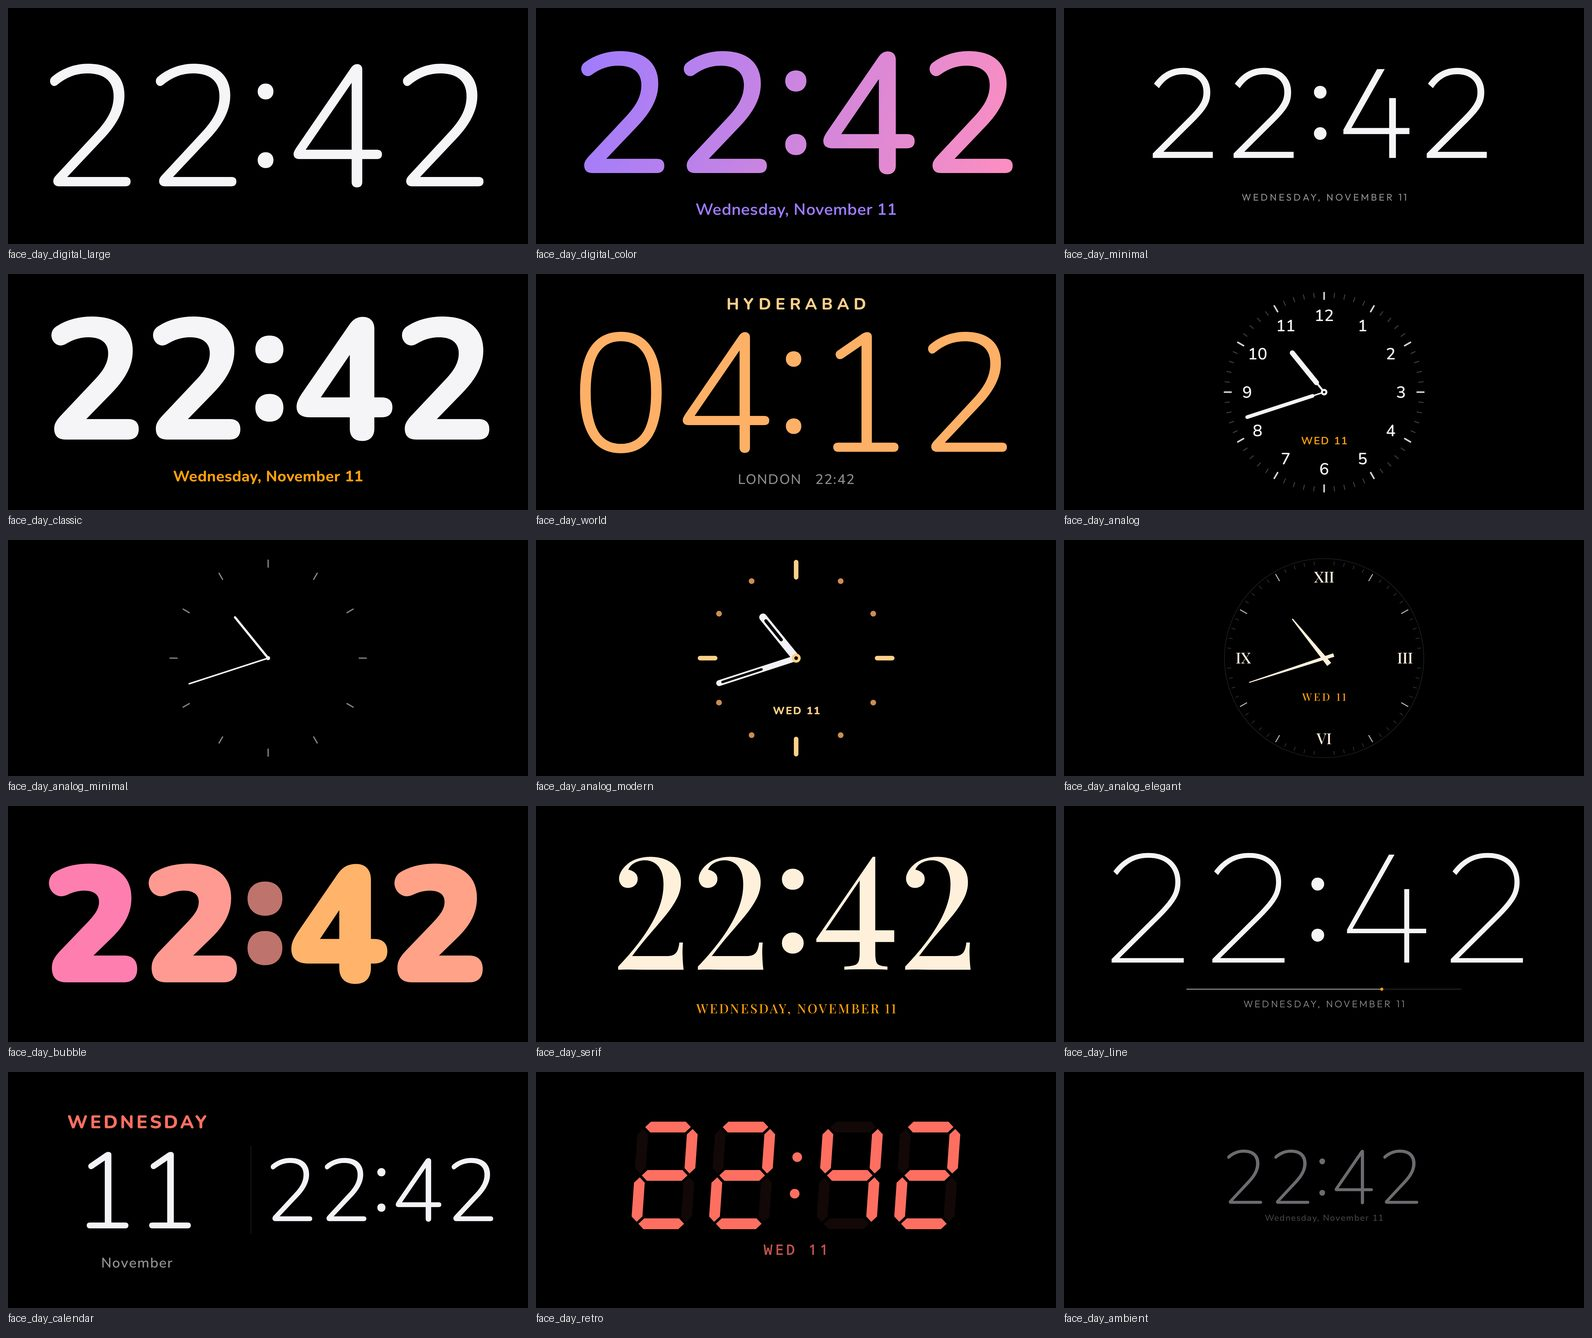
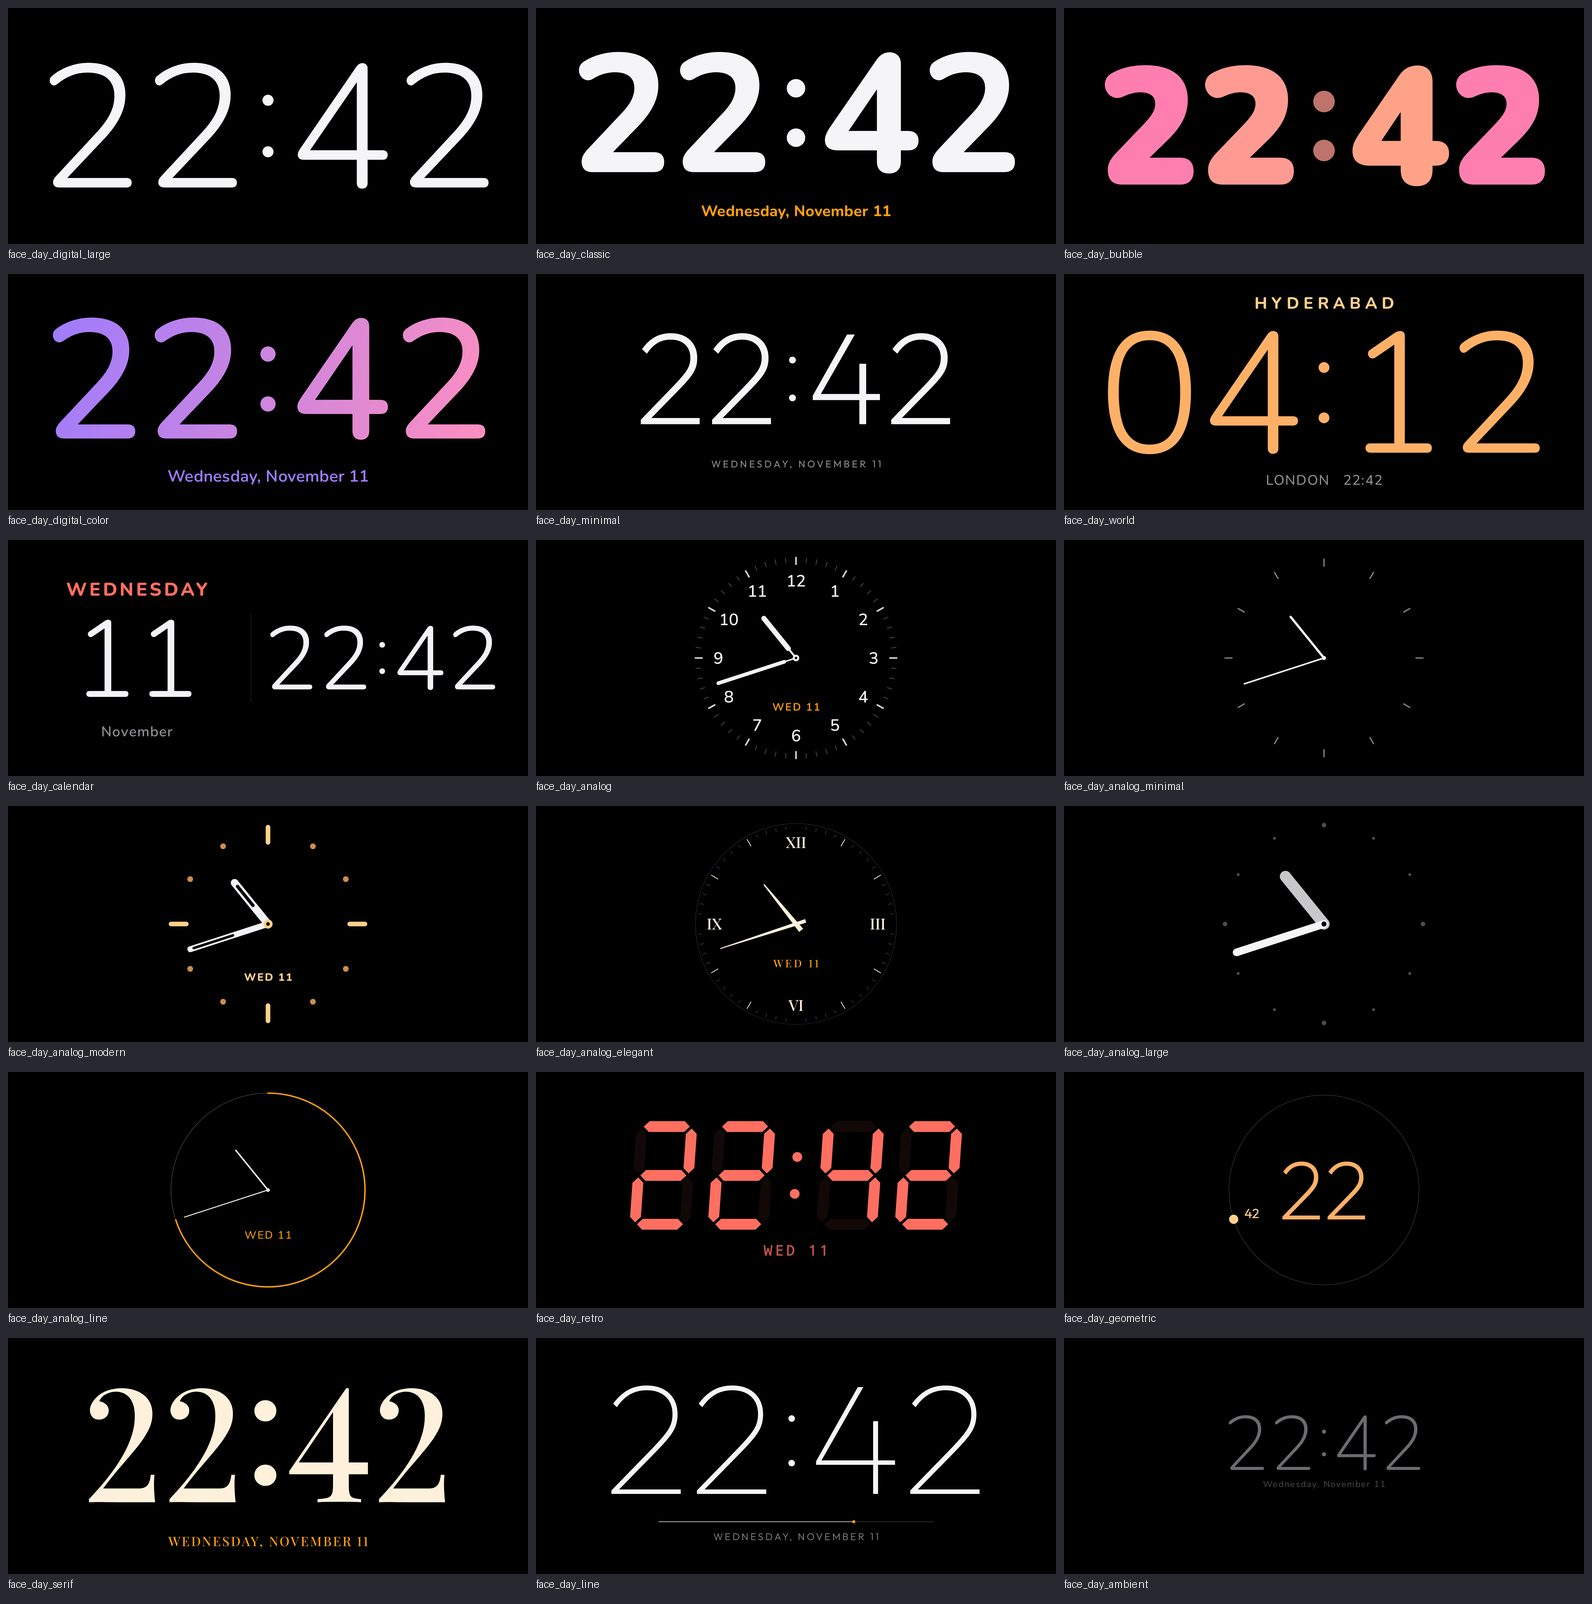
docs: ambient experience, faces, OnePlus test 14, progress, images
Claude-Session: https://claude.ai/code/session_016ebCtrYKcM3s4WXsvXfbU9

diff --git a/README.md b/README.md
@@ -1,4 +1,6 @@
-# StandBy Clock
+# StandBy Clock — NiteStand
+
+**NiteStand — an Apple StandBy-inspired ambient display for Android.** (Not affiliated with Apple; all code, fonts and assets are original or openly licensed.)
 
 **StandBy Clock turns your Android phone into a bedside display while charging.**
 
@@ -23,7 +25,8 @@ Material 3). No network access, no accounts. The core app needs no permissions; 
 | No charger | NiteStand Quick Settings tile (one tap, also from the lock screen), opt-in lock-screen auto start, battery screen-on timeout |
 | Diagnostics | Live report of what the phone allows (screen saver, keyguard, permissions, sensor angles, StandBy state) with copyable event log |
 | Orientation | Physical orientation from the gravity sensor / accelerometer, both landscape directions, configurable tolerance, hysteresis and settle time |
-| Clock faces | 15 Apple StandBy-inspired faces in a live-preview gallery (5 digital, 4 analog, 6 expressive) with per-face colours — swipe on StandBy to switch |
+| Clock faces | 18 StandBy-inspired faces in a live-preview gallery (7 digital, 6 analog, 5 decorative) with per-face colours — swipe up/down on StandBy to switch |
+| Ambient experience | Composed entrance/exit, per-glyph minute transitions, directional face transitions, floating information page, invisible burn-in drift, night environment |
 | Widgets | Clock, Date, Battery (percentage + status), Next alarm, Weather (sample data) |
 | Display | Immersive full screen, sensor-landscape (auto 180° flip), keep-screen-on only while active |
 | Brightness | Auto / Low / Medium / High per-window override, ramped smoothly; Night mode (dim red, lowest brightness) Off / Always on / Automatic schedule, with a 2.5 s cross-fade |
@@ -33,6 +36,50 @@ Material 3). No network access, no accounts. The core app needs no permissions; 
 | Accessibility | TalkBack labels for clock and widgets, custom actions, 48 dp targets, reduced motion (app setting + system animator scale), high-contrast colours |
 
 ---
+
+## The ambient experience (v2)
+
+The active screen is one composition rather than an app screen. From back to front:
+- a true-black environment
+- a *stage* that carries the entrance and exit choreography and a sub-pixel burn-in drift
+- the pages: the clock, plus an optional floating information page
+- faint page dots that appear only when you touch the screen
+
+There are no bars, cards, buttons or labels. See [docs/REDESIGN_PLAN.md](docs/REDESIGN_PLAN.md)
+for the analysis and the architecture.
+
+| Moment | Behaviour |
+|---|---|
+| Enter | The window fades in from black. The clock then settles in (fade, 0.94→1 scale, 1.1 s emphasised deceleration), and secondary text follows. |
+| Minute change | Only the changed digits move. Each old digit rises 0.16 em and fades while the new one rises in, staggered over 700 ms. Unchanged digits stay still or glide if spacing changes. |
+| Seconds | A 220 ms fade. |
+| Analog hands | Glide along the shortest path. They never spin backwards through 12. |
+| Change face | Swipe up or down. The clock follows your finger with a soft rubber band, and the new face arrives from the direction you swiped. Changes made in the gallery cross-dissolve. |
+| Change colour | The colours blend over 450 ms. |
+| Pages | Swipe sideways to the information page (date, battery, alarm, sample weather). The page uses a depth transition: fade, recede and half-distance parallax. |
+| Touch | A tap shows the page dots and a faint "Double-tap to exit" for about 3 s. A double tap, Back or the tile fades the stage out, then the window closes with a fade. |
+| Night | The style interpolates over 2.5 s into a muted red environment with three opacity levels (time ≈ 0.86, secondary ≈ 0.48, metadata ≈ 0.2). Brightness ramps down to the minimum. All motion runs 1.6× slower. |
+| Burn-in | Every 45 s (configurable) the stage drifts at most 14 dp along a deterministic path, with an 8 s ease-in-out (13 s at night). The movement is sub-pixel, so it never visibly steps. |
+
+![Minute transition](docs/images/glyph-transition.jpg)
+
+![Information page](docs/images/info-page.jpg)
+
+**Typography.** All digital faces use one renderer (`TimeText`):
+- It uses proportional lining figures, so a "1" no longer sits in a wide cell.
+- Its size is constant, scaled to the widest possible time, so the clock never resizes when the
+  digits change.
+- It centres the digits optically using their real glyph bounds.
+- It draws the colon as two round dots sized from the stroke weight and centred on the digits.
+- It stacks AM/PM (aligned to the digit top) over seconds (aligned to the baseline).
+
+**Performance.** There are no continuous animations. Frames are produced only during transitions:
+- 0.7 s per minute change
+- about 8 s per burn-in move
+- while you interact
+
+Animated values are read in draw or layer lambdas, so animating does not recompose the screen.
+Paints are reused between frames. All timers and sensors are bound to the lifecycle.
 
 ## Clock faces
 
@@ -46,28 +93,33 @@ Canvas or with native text: there are no images, videos or prerecorded animation
 
 | Category | Face | Character | Colours |
 |---|---|---|---|
-| Digital | **StandBy** (default) | Huge light rounded digits, nothing else | all 9 |
-| Digital | Color | Two-tone gradient digits | 7 colourful palettes |
-| Digital | Minimal | Thin geometric numerals, tiny tracked date | white, warm white, orange, blue |
-| Digital | Rounded Bold | Heavy rounded digits, accent date | all 9 |
-| Digital | World | Chosen city + optional second zone with offset | 5 |
-| Analog | Analog | Rounded numerals 1–12, watch-style hands | 6 (accent) |
-| Analog | Analog Minimal | Twelve hairline marks, thin hands | white, warm white |
-| Analog | Analog Modern | Dots and bars, bold skeleton hands | 7 (accent) |
-| Analog | Analog Elegant | Serif Roman numerals, tapered hands | 3 |
-| Expressive | Bubble | Heavy rounded numerals, per-digit colours | 7 |
-| Expressive | Serif | High-contrast display serif | 4 |
-| Expressive | Line | Hairline numerals over a line that fills each hour | 5 |
-| Expressive | Calendar | Weekday, big day number, month, time | 4 |
-| Expressive | Retro | Seven-segment LED | 5 LED colours |
-| Expressive | Ambient | Small and very dim | fixed |
+| Digital | **Large** (default) | Huge light rounded digits, nothing else | all 9 |
+| Digital | Large Rounded | Heavy rounded digits, accent date | all 9 |
+| Digital | Colorful | Heavy rounded numerals, per-digit colours | 7 |
+| Digital | Gradient | Two-tone gradient digits | 7 |
+| Digital | Minimal | Thin geometric numerals, tiny tracked date | 4 |
+| Digital | World Clock | City + optional second zone with offset | 5 |
+| Digital | Date | Weekday, big day number, month, time | 4 |
+| Analog | Classic | Rounded numerals 1–12, watch-style hands | 6 |
+| Analog | Minimal | Twelve hairline marks, thin hands | 2 |
+| Analog | Modern | Dots and bars, bold skeleton hands | 7 |
+| Analog | Elegant | Serif Roman numerals, tapered hands | 3 |
+| Analog | Large Hands | No dial, two generous hands | 6 |
+| Analog | Thin Line | Hairline ring that fills with the hour | 5 |
+| Decorative | Retro | Seven-segment LED | 5 |
+| Decorative | Orbit | Thin hour numeral, minutes orbiting a ring | 6 |
+| Decorative | Editorial | High-contrast display serif | 4 |
+| Decorative | Hairline | Hairline numerals over an hour line | 5 |
+| Decorative | Ambient | Small and very dim | fixed |
 
-Night mode turns every face into StandBy-style dim red on black:
+Night mode turns every face into a muted, three-level red environment:
 
 ![Night mode](docs/images/clock-faces-night.jpg)
 
 **How it is built** (`clock/`, `ui/clock/`):
 
+* Every face implements `ClockFace` (`ui/clock/ClockFace.kt`) and is registered in `ClockFaces`.
+  A face is an independent composition that receives a `ClockState` (time data + animated style).
 * `ClockFaceCatalog` declares, per face, its category, allowed `ClockPalette`s, and whether it
   supports a date, seconds or AM/PM, the side panel or world time. Settings, the gallery and the
   renderer read the same specification.
@@ -80,8 +132,7 @@ Night mode turns every face into StandBy-style dim red on black:
   between frames.
 * `StandByStyle` derives colours from the palette and interpolates towards night red, which gives
   the smooth night transition.
-* Adding a face takes three steps: an enum entry, a `ClockFaceSpec`, and a composable in the
-  `ClockFace` dispatcher.
+* Adding a face takes three steps: an enum entry, a `ClockFaceSpec`, and a `ClockFace` registration.
 
 ### Fonts and licences
 

diff --git a/ONEPLUS_TESTING.md b/ONEPLUS_TESTING.md
@@ -282,3 +282,47 @@ stutters when seconds are on.
 
 **If it fails, capture.** A screenshot (`adb exec-out screencap -p > face.png`), the face name and
 settings, and `adb shell dumpsys gfxinfo com.nitestand.standbyclock` for any stutter.
+
+---
+
+## 14. Ambient experience and performance (v2.0.0)
+
+**Steps (in a dark room, phone horizontal on the stand)**
+1. **Enter.** Use the tile, Preview, or lock-screen auto start. Watch the first second.
+2. **Minute change.** Wait for a minute change, with the Large face at 24-hour.
+3. **Face change.** Swipe up and down on the clock several times, and switch faces in the gallery.
+4. **Colour.** Change the colour in Settings › Appearance, then open StandBy.
+5. **Info page.** Swipe sideways to the information page and back.
+6. **Tap.** Tap once, then double-tap.
+7. **Night.** Night mode: Always on. Open StandBy, then turn Night off from the tile/app and back.
+8. **Burn-in.** Leave it for 5 minutes and watch a digit against a fixed edge.
+
+**Expected**
+1. No sliding Android transition: the screen fades from black and the clock settles in. There is
+   no white flash and no status or navigation bar.
+2. Only the changed digit(s) move: old up and out, new up and in, in under a second. There is no
+   flicker, and the other digits don't move.
+3. The clock follows your finger slightly and springs back. The new face arrives from the swipe
+   direction.
+4. The colours blend smoothly; nothing snaps.
+5. The pages recede and fade as they move. There are no cards or boxes.
+6. A tap shows faint page dots plus "Double-tap to exit" for about 3 s. A double tap fades out and
+   returns to the lock screen or launcher without a black-frame glitch, and normal brightness
+   returns.
+7. The screen dims gradually into red over about 2.5 s. Brightness ramps down. Secondary text is
+   clearly fainter than the time.
+8. You don't notice any movement unless you compare against a fixed reference. It never jumps.
+
+**Frame rate (please measure; it could not be measured in the build environment)**
+```
+adb shell dumpsys gfxinfo com.nitestand.standbyclock reset
+# perform steps 2–5 for ~1 minute
+adb shell dumpsys gfxinfo com.nitestand.standbyclock | grep -E "Total frames|Janky|50th|90th|99th"
+```
+Expected: janky frames < 5 %, and a 90th percentile below the display frame time (16.6 ms at 60 Hz).
+
+**CPU / battery at rest:** `adb shell top -n 1 -o %CPU,ARGS | grep standby` while StandBy has been
+idle for a minute should show ~0 % except during the once-per-minute transition.
+
+**If it fails, capture:** a screen recording (`adb shell screenrecord /sdcard/ns.mp4`), the
+gfxinfo output, and Diagnostics › Copy report.

diff --git a/DEVELOPMENT_PROGRESS.md b/DEVELOPMENT_PROGRESS.md
@@ -1,15 +1,23 @@
 # DEVELOPMENT_PROGRESS
 
 Project: NiteStand — StandBy Clock (Android)
-Phase: v1.2.0 — Apple StandBy-inspired clock gallery
+Phase: v2.0.0 — premium ambient StandBy redesign
 
 ## Current status
-- Overall: v1.2.0 implemented and verified in the build environment (JVM + Robolectric screenshot
-  review of every face, day/night, 12/24h, seconds, portrait). Not yet seen on the physical device.
+- Overall: v2.0.0 implemented and verified in the build environment (JVM tests, Robolectric
+  screenshot review incl. transition frames). NOT yet seen on the physical device; frame rate and
+  CPU not measurable here (ONEPLUS_TESTING.md test 14 measures them).
+- v2.0.0 work: see docs/REDESIGN_PLAN.md. Stage composition (entrance/exit, burn-in drift, pages),
+  TimeText v2 (per-glyph transitions, drawn colon, constant scale, proportional figures, no
+  first-frame flash), ClockFace interface + registry, 3 new faces (Large Hands, Thin Line, Orbit),
+  animated style (colour + night environment with 3-level hierarchy), motion tokens, floating info
+  page, custom window animations, grouped settings, Night brightness level.
+- Previous (v1.2.0):
 - Last completed task: clock-face gallery (15 faces), palette colour system, central formatting
   (AM/PM, date styles), smooth night transition, brightness ramp, settings migration v2.
 - Current task: none.
-- Next task: user runs ONEPLUS_TESTING.md test 13 on the OnePlus 12R (photos in a dark room) and
+- Next task: user runs ONEPLUS_TESTING.md tests 13–14 (incl. gfxinfo frame stats); then tune
+  durations/sizes from real-panel feedback. Previously: test 13 on the OnePlus 12R (photos in a dark room) and
   reports any face that needs size/brightness/spacing tuning on the real panel.
 
 ## v1.2.0 clock-face work
@@ -59,8 +67,8 @@ Phase: v1.2.0 — Apple StandBy-inspired clock gallery
 
 ## Build
 - Debug APK: SUCCESS
-- Release APK 1.2.0 (versionCode 3, R8, v2-signed, same certificate as 1.0.0/1.1.0): SUCCESS
-- Unit + screenshot tests: PASSING (123/123; screenshots in app/build/screenshots)
+- Release APK 2.0.0 (versionCode 4, R8, v2-signed, same certificate as earlier versions): SUCCESS
+- Unit + screenshot tests: PASSING (133/133; screenshots in app/build/screenshots)
 - Lint: 0 errors, 0 warnings
 - Android tests: compile SUCCESS, not run
 
